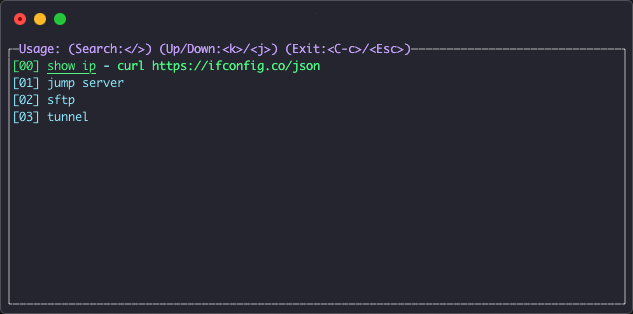
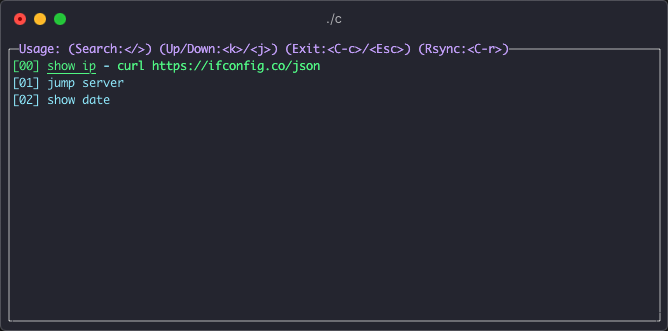
Update README about rsync function.

Changed region(s): [[0.0, 0.1146, 0.9905, 0.9745], [0.0, 0.0287, 0.1201, 0.086], [0.4803, 0.0287, 0.5103, 0.086]]

diff --git a/README.md b/README.md
@@ -24,6 +24,8 @@ curl https://raw.githubusercontent.com/Fedomn/c/master/release/c.linux -o c && c
 * Terminal UI make operation faster
 * Fuzzy Search make searching more convenient
 * Including flexible normal mode and search mode
+* Support rsync upload function based on SSH command
+    * ssh cmd pattern must be `ssh -i key user@ip`
 
 # Usage
 
@@ -31,8 +33,11 @@ configuration demo:
 
 ```yaml
 -
+ name: show ip
+ cmd: curl https://ifconfig.co/json
+-
  name: jump server
- cmd: ssh jump@server
+ cmd: ssh -i key user@ip
 -
  name: show date
  cmd: date
@@ -48,6 +53,7 @@ Terminal UI shortcuts in normal mode:
 | `<C-u>` | Scroll Half Page Up |
 | `<C-f>` | Scroll Page Down |
 | `<C-b>` | Scroll Page Up |
+| `<C-r>` | Rsync Upload |
 | `q` / `<C-c>` / `<Escape>` | Close App |
 | `/` | Into Search Mode |
 | `Enter` | Select a command |
@@ -61,5 +67,6 @@ Terminal UI shortcuts in search mode:
 | `<C-j>` / `<Down>` | Scroll Down |
 | `<C-k>` / `<Up>` | Scroll Up |
 | `<C-u>` | Erase search string |
+| `<C-r>` | Rsync Upload |
 | `<C-c>` / `<Escape>` | Back to Normal Mode |
 | `Backspace` | Delete the last letter of search string |
